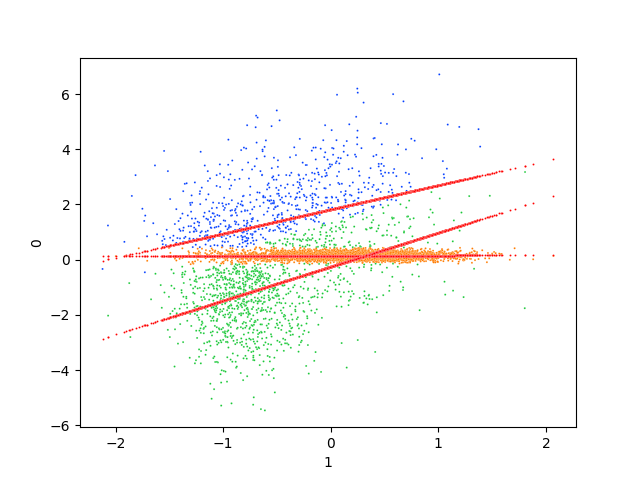
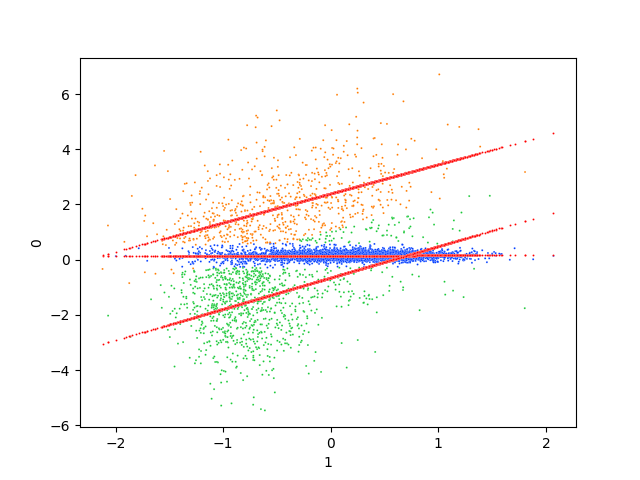
Add new parameter to week 4 EM model to capture covariate variance

Changed region(s): [[0.1562, 0.3125, 0.7812, 0.7188], [0.6875, 0.3125, 0.7812, 0.375], [0.1562, 0.5312, 0.1875, 0.5625]]

diff --git a/week4/flm_em_practice.py b/week4/flm_em_practice.py
@@ -37,6 +37,8 @@ class FiniteLinearModelEM():
         # define parameters
         self.betas = np.random.normal(size=(self.G, self.p))
         self.sigmas = np.abs(np.random.normal(size=(self.G,)))
+        # Model covariate variance using normal distribution
+        self.covariate_sigmas = np.abs(np.random.normal(size=(self.G,)))
         # mixing ratios
         self.w = np.abs(np.random.normal(size=(self.G,)))
         # w's should sum up to one for all i's and a given j
@@ -61,6 +63,10 @@ class FiniteLinearModelEM():
         for g in range(self.G):
             self.sigmas[g] = np.sqrt((
                 self.z[:, g] * np.power((self.y - self.X @ self.betas[g, :].T), 2)
+            ).sum() / self.z[:, g].sum())
+        for g in range(self.G):
+            self.covariate_sigmas[g] = np.sqrt((
+                self.z[:, g] * np.power(self.X[:, 0], 2)
             ).sum() / self.z[:, g].sum())
         # beta_new = (X' * W * X)^-1 * (X' * W * y)
         for g in range(self.G):
@@ -109,10 +115,17 @@ class FiniteLinearModelEM():
             y_hats = (self.betas[g] * self.X).sum(-1)
 
             # compute log of gaussian density
-            term1 = - 0.5 * np.log([2 * np.pi])
-            term2 = - np.log(self.sigmas[g])
-            term3 = - 0.5 * np.power(((y_hats - self.y) / self.sigmas[g]), 2)
-            ldens[:, g] = term1 + term2 + term3
+            ldens[:, g] = - 0.5 * np.log([2 * np.pi])
+            ldens[:, g] += - np.log(self.sigmas[g])
+            ldens[:, g] += - 0.5 * np.power(((y_hats - self.y) / self.sigmas[g]), 2)
+
+            # Modelling covariate variance using normal distribution
+            ldens[:, g] += - 0.5 * np.log([2 * np.pi])
+            ldens[:, g] += - np.log(self.sigmas[g])
+            # The second column is just ones, so ignore that
+            ldens[:, g] += - 0.5 * np.power(
+                self.X[:, 0] / self.covariate_sigmas[g], 2
+            )
         
         return ldens
 
@@ -142,7 +155,10 @@ class FiniteLinearModelEM():
 
     def BIC(self) -> float:
         """Return Bayesian Information criteria"""
-        rho = self.betas.numel() + self.sigmas.numel() + self.w.numel()
+        rho = (
+            self.z.size + self.betas.size + self.sigmas.size
+            + self.w.size + self.covariate_sigmas.size
+        )
         bic =  -2 * self.objective_function() - rho * np.log(self.y.shape[0])
         return float(bic)
 
@@ -203,5 +219,6 @@ if __name__ == "__main__":
     flm = FiniteLinearModelEM(G=G, data=data_s)
 
     # Run EM algo for 10 iterations, then plot colors
-    flm.fit(max_iter=10)
+    flm.fit(max_iter=30)
+    print(f"BIC: {flm.BIC()}")
     flm.plot()
